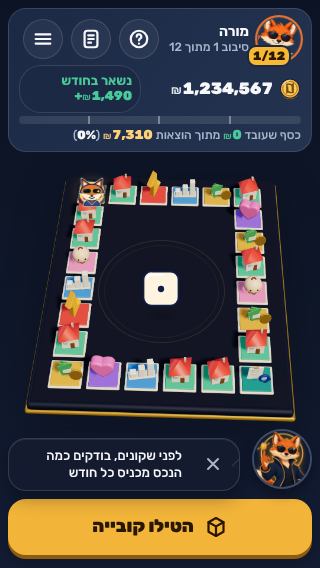
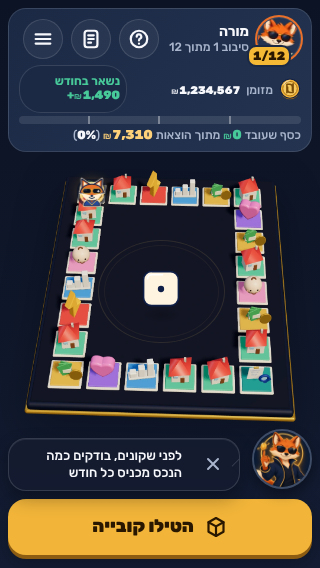
HUD: keep the 'מזומן' label on small phones (QA r12 rule); narrower flow chip at <= 359px; tone classes on the progress line figures
Claude-Session: https://claude.ai/code/session_01UdvYmfAGD2mbhnpTRnvG2p

Changed region(s): [[0.5312, 0.1197, 0.875, 0.1796], [0.1562, 0.1197, 0.4062, 0.1796]]

diff --git a/src/styles/hud-b.css b/src/styles/hud-b.css
@@ -56,9 +56,7 @@
 .fox-guide { position: relative; }
 .fox-guide[data-has-tip]::after { content: ""; position: absolute; inset-block-start: 4px; inset-inline-end: 4px; inline-size: 14px; block-size: 14px; border-radius: 50%; background: var(--sel-gold); border: 2px solid var(--bg); }
 /* small phones: the chip gives the cash its room back; at <= 340 the chevron goes (the coin stays: QA r18, the junior coin display needs it) */
-@media (max-width: 359px) { .screen-board.board-full .hud .flow-chip { max-inline-size: 122px; padding-inline: 8px; } }
+@media (max-width: 359px) { .screen-board.board-full .hud .flow-chip { max-inline-size: 108px; padding-inline: 6px; font-size: .75rem; } }
 @media (max-width: 340px) { .screen-board.board-full .hud .flow-chip .fc-chev { display: none; } }
 /* a long name wraps (two lines at most), never an ellipsis */
 .screen-board.board-full .hud-idline .hud-prof { white-space: normal; overflow: visible; text-overflow: clip; max-inline-size: 100%; }
-/* a 9+ digit cash on a small phone: the word 'מזומן' steps aside so the number keeps its size (the coin and the sign stay) */
-@media (max-width: 359px) { .screen-board.board-full .hud .hud-cash:has(.cash-num[data-len="9"], .cash-num[data-len="10"], .cash-num[data-len="11"], .cash-num[data-len="12"]) .cash-label { display: none; } }
